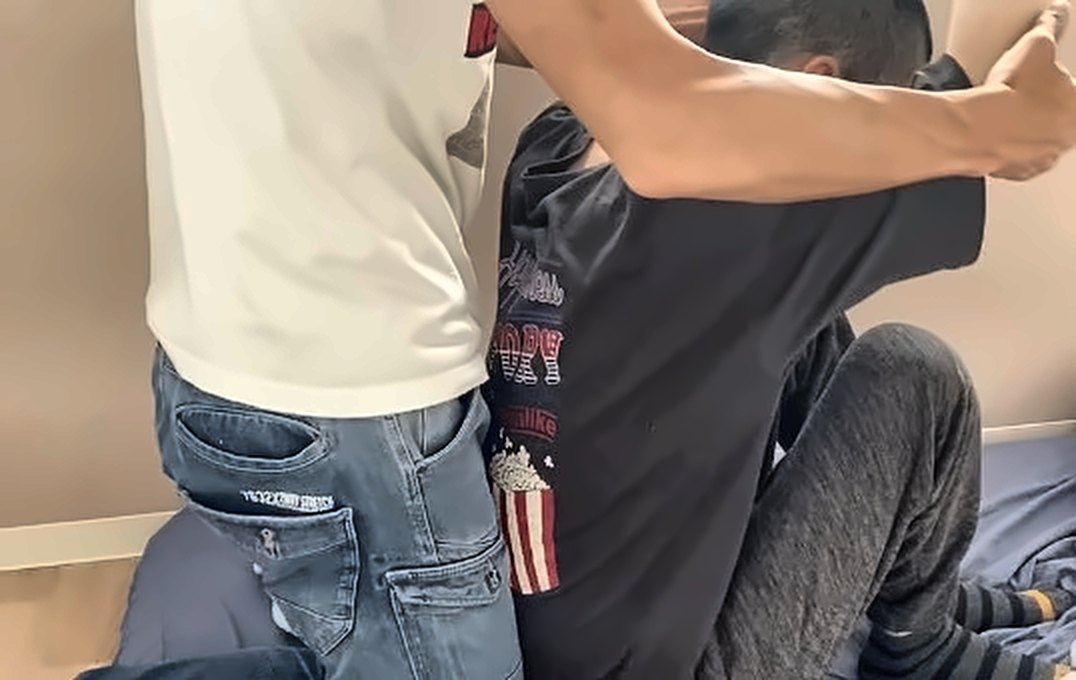
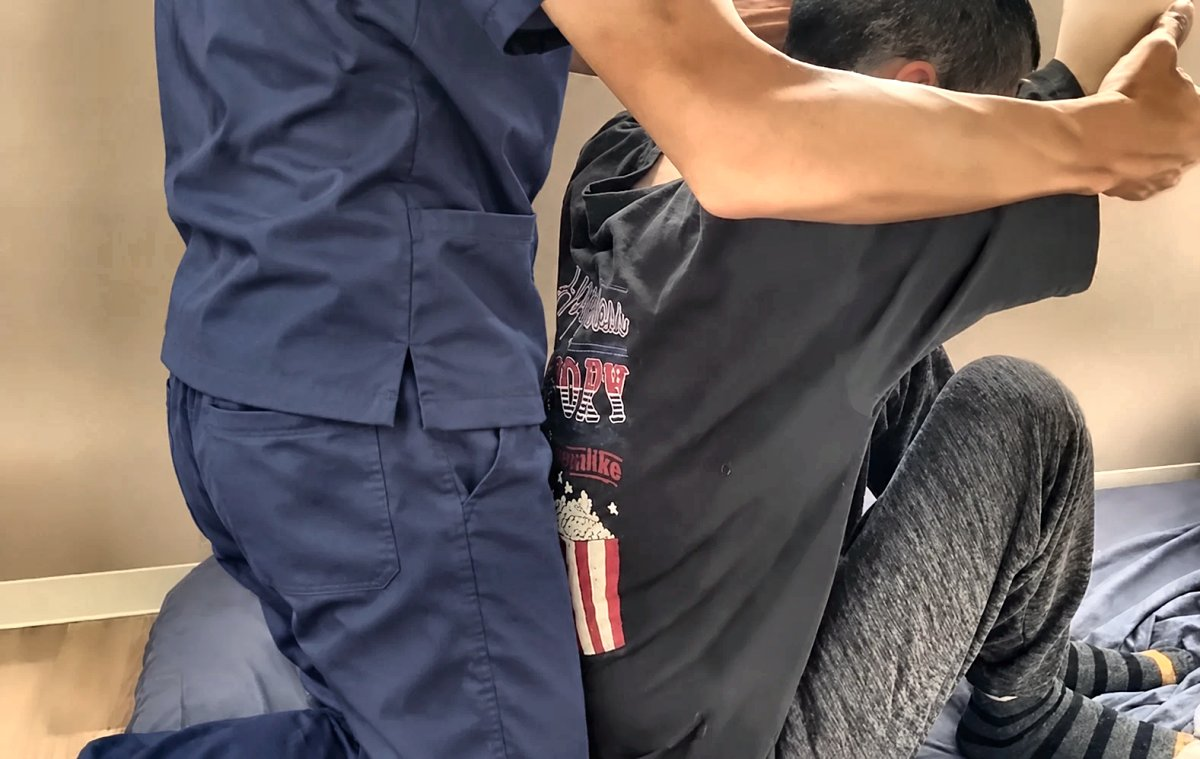
写真をスクラブ着用のものに差し替え

diff --git a/index.html b/index.html
@@ -8,8 +8,8 @@
 <meta property="og:type" content="website">
 <meta property="og:url" content="https://gitorix.github.io/homon-massage/">
 <meta property="og:image" content="https://gitorix.github.io/homon-massage/images/photo3.jpg">
-<meta property="og:image:width" content="1084">
-<meta property="og:image:height" content="696">
+<meta property="og:image:width" content="1400">
+<meta property="og:image:height" content="899">
 <meta name="twitter:card" content="summary_large_image">
 <meta property="og:title" content="福祉施設向け 訪問マッサージのご案内｜糸井針灸／やくしマッサージ接骨院">
 <meta property="og:description" content="からだがほぐれると毎日がすこし明るくなる。施設まで伺う訪問マッサージのご案内です。">
@@ -434,7 +434,7 @@ footer .wrap{display:flex;justify-content:space-between;flex-wrap:wrap;gap:12px}
       <figure class="hero-photo">
         <div class="halo" aria-hidden="true"><span class="g-sun"></span><span class="g-leaf"></span><span class="ring"></span><span class="ring r2"></span></div>
         <div class="photo-frame">
-          <img src="images/photo3.jpg" width="1084" height="696" alt="座った方の肩に両手を添えて、スタッフが肩まわりをほぐしている様子">
+          <img src="images/photo3.jpg" width="1400" height="899" alt="座った方の肩に両手を添えて、スタッフが肩まわりをほぐしている様子">
           <span class="photo-chip">肩まわりのほぐし</span>
         </div>
       </figure>
@@ -507,16 +507,16 @@ footer .wrap{display:flex;justify-content:space-between;flex-wrap:wrap;gap:12px}
         <p>寝たままでも座ったままでも大丈夫です。その方が楽な姿勢で行います。</p>
       </div>
       <div class="scene-strip">
-        <figure class="scene" style="--ar:1076/608">
-          <img src="images/photo1.jpg" width="1076" height="608" loading="lazy" alt="スタッフが、仰向けに寝た方の脚をゆっくり曲げてストレッチしている様子">
+        <figure class="scene" style="--ar:1200/622">
+          <img src="images/photo1.jpg" width="1200" height="622" loading="lazy" alt="スタッフが、仰向けに寝た方の脚をゆっくり曲げてストレッチしている様子">
           <figcaption>股関節・膝のストレッチ</figcaption>
         </figure>
-        <figure class="scene" style="--ar:1076/680">
-          <img src="images/photo2.jpg" width="1076" height="680" loading="lazy" alt="座った方の後ろからスタッフが両腕を支え、肩と背中をひらくストレッチをしている様子">
+        <figure class="scene" style="--ar:1200/759">
+          <img src="images/photo2.jpg" width="1200" height="759" loading="lazy" alt="座った方の後ろからスタッフが両腕を支え、肩と背中をひらくストレッチをしている様子">
           <figcaption>肩・背中をひらく</figcaption>
         </figure>
-        <figure class="scene" style="--ar:1030/612">
-          <img src="images/photo4.jpg" width="1030" height="612" loading="lazy" alt="スタッフが、布団に仰向けで寝た方の腕と手をやさしく動かしている様子">
+        <figure class="scene" style="--ar:1200/634">
+          <img src="images/photo4.jpg" width="1200" height="634" loading="lazy" alt="スタッフが、布団に仰向けで寝た方の腕と手をやさしく動かしている様子">
           <figcaption>腕・手のケア</figcaption>
         </figure>
       </div>
